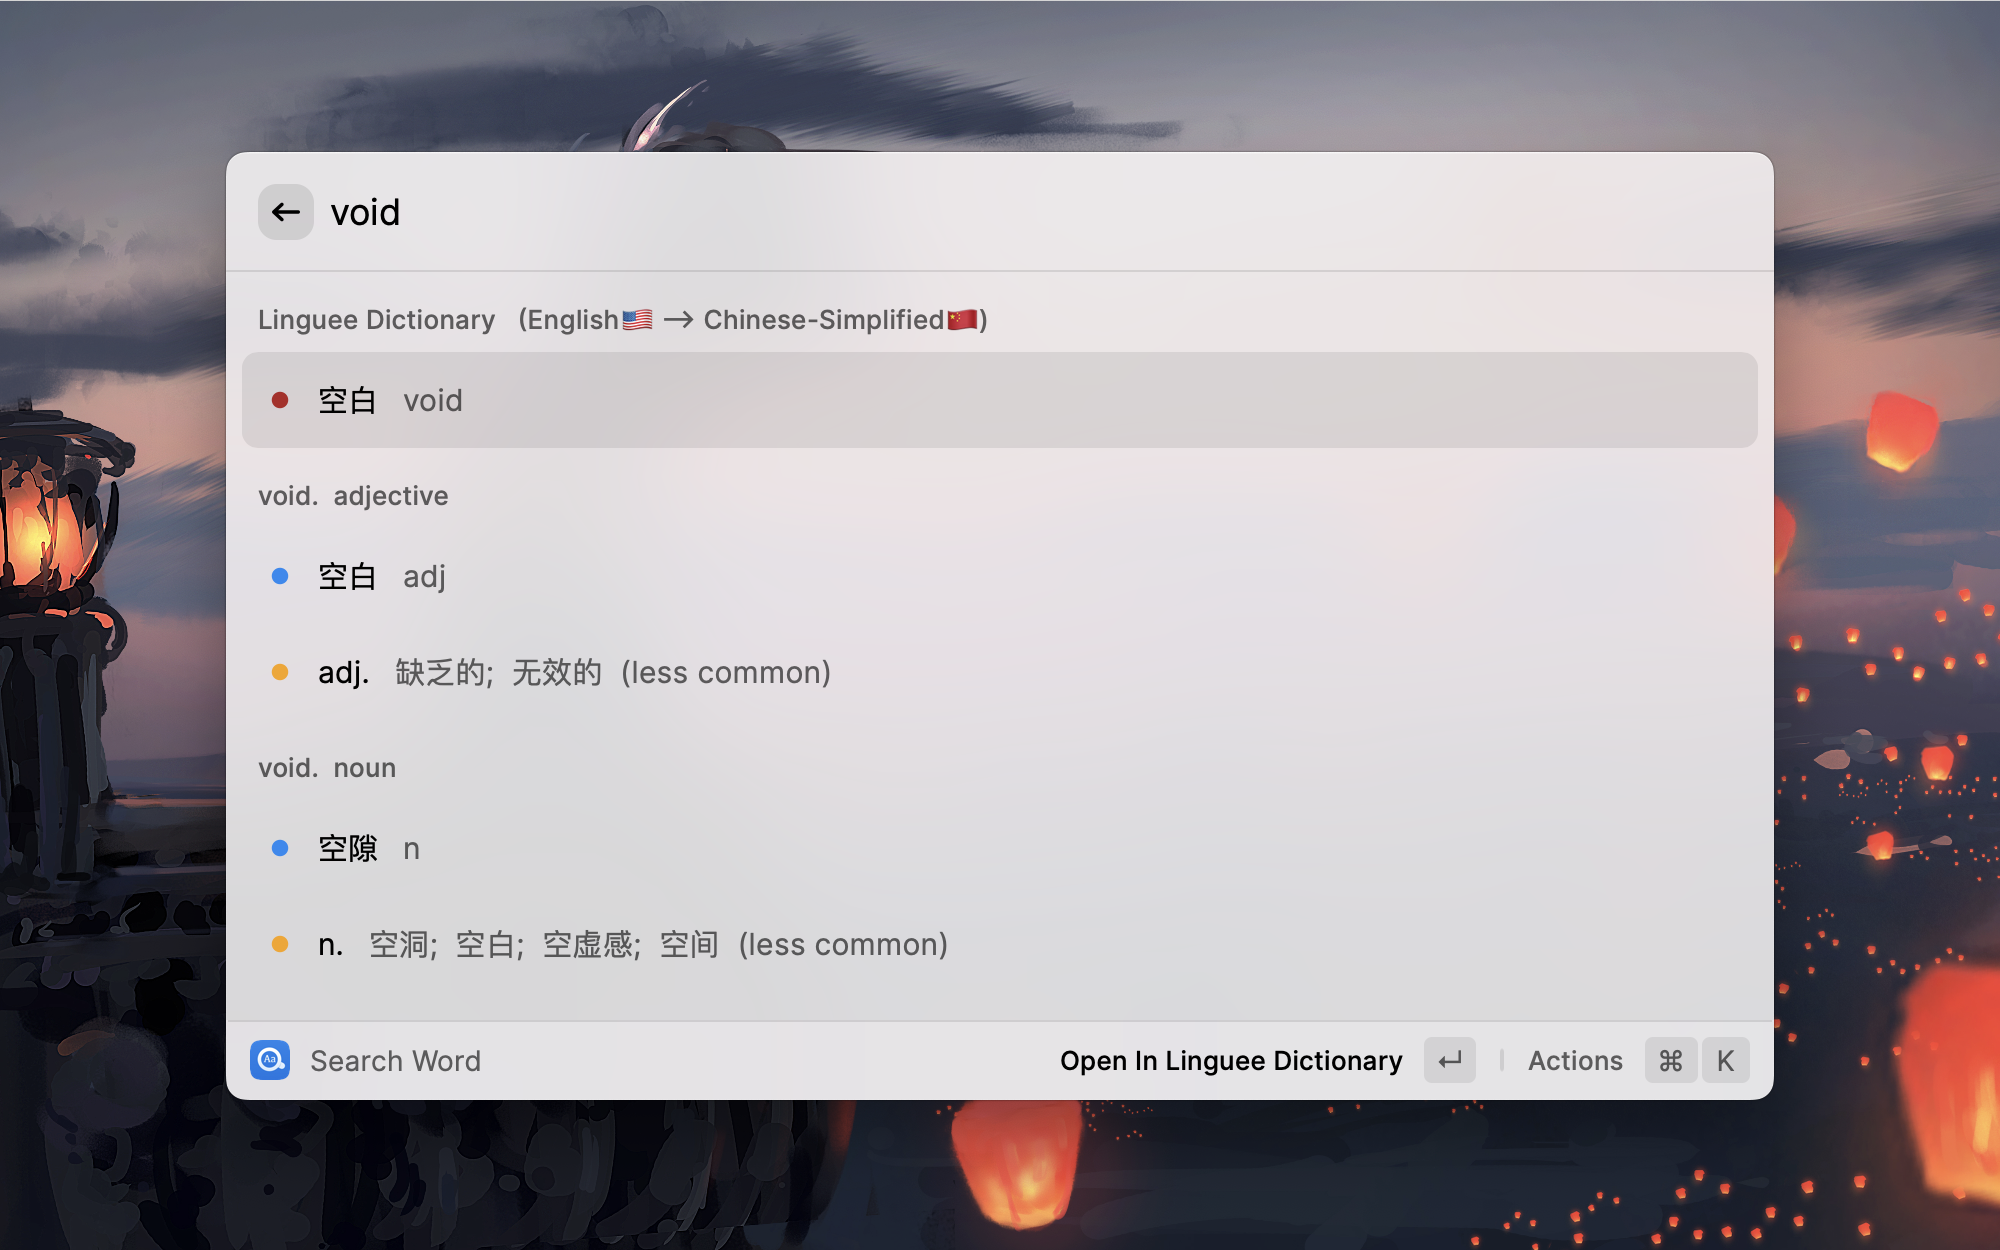
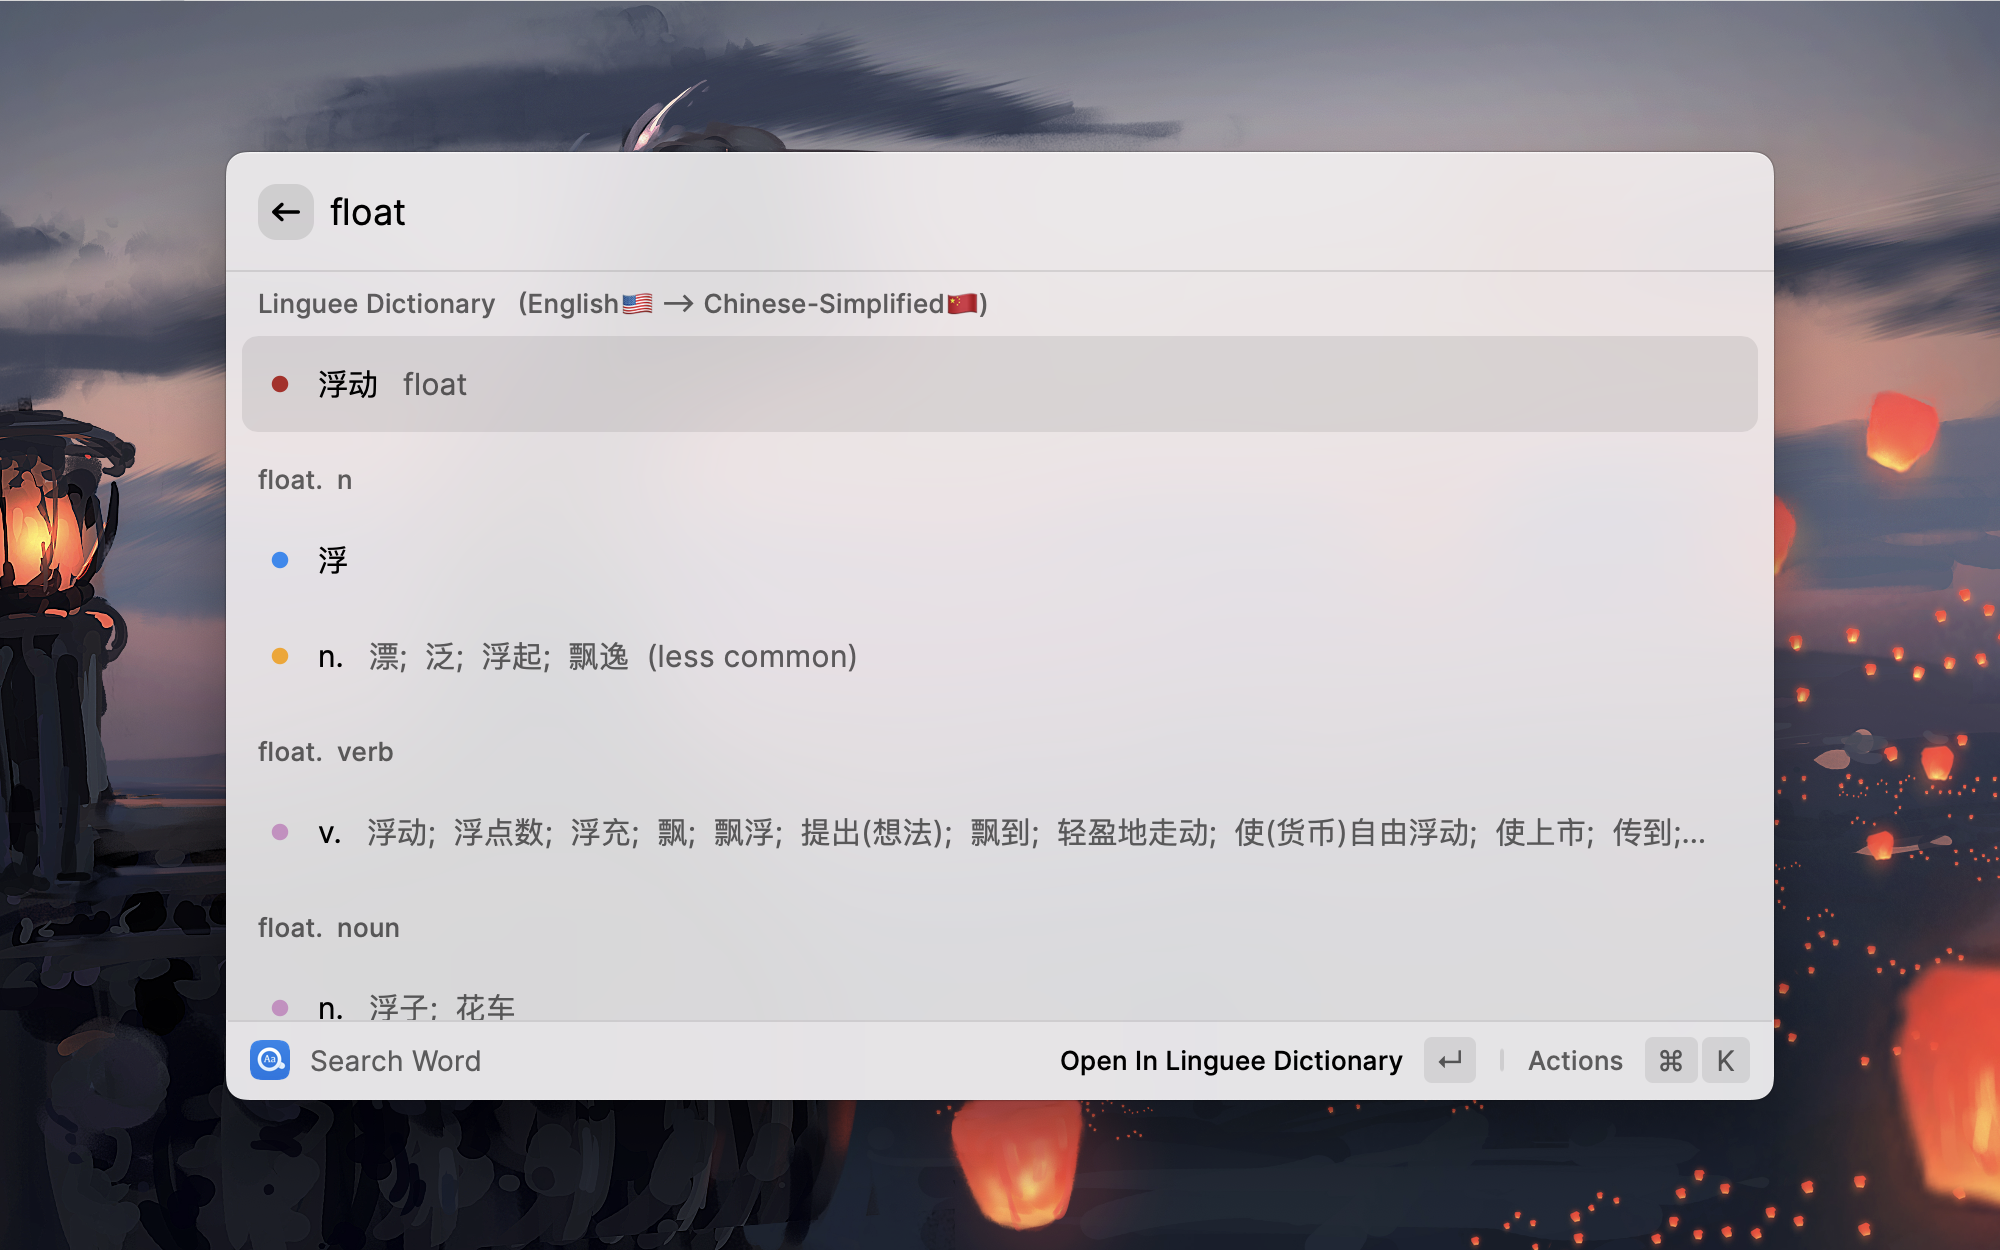
docs: update README

diff --git a/README.md b/README.md
@@ -13,7 +13,7 @@
 
 ## What is Easydict? [【中文介绍】](https://github.com/tisfeng/Raycast-Easydict/blob/main/docs/README_ZH.md)
 
-`Easydict` is an easy dictionary, for looking up words or easily translating text. Use it out of the box, automatically detect the input text language, and support **Linguee** and Youdao dictionary, **MacOS system translate**, DeepL, Google, Baidu, Tencent, Youdao, and Caiyun translation.
+`Easydict` is an easy dictionary, for looking up words or easily translating text. Use it out of the box, automatically detect the input text language, and support **Linguee** and Youdao dictionary, **MacOS system translation**, DeepL, Google, Baidu, Tencent, Youdao, and Caiyun translation.
 
 ![easydict-1](https://raw.githubusercontent.com/tisfeng/ImageBed/main/uPic/easydict-1-1660916219.png)
 
@@ -24,11 +24,11 @@
 - [x] Provide word-rich query information, including basic translation, pronunciation, the types of exams that include the word, multiple parts of speech and explanations, forms and tenses, web translations, and web phrases.
 - [x] Support automatic query selected text, enabled by default.
 - [x] Support to open the [Eudic Dictionary](https://apps.apple.com/us/app/eudic-%E6%AC%A7%E8%B7%AF%E8%AF%8D%E5%85%B8/id434350458?l=zh&mt=12) and quickly look up words, if installed on your Mac.
-- [x] Quick search query text online, supports Eudic, Youdao dictionary, and Google translation.
 - [x] Support automatic playback of word pronunciation. Use `Cmd + S` to play the pronunciation of words manually.
 - [x] Support Youdao Text to Speech(TTS).
 - [x] Support to sort translation results manually.
 - [x] Support system proxy.
+- [x] Support Linguee and Youdao Dictionary.
 - [x] Support **macOS system translation**. (_Please see [How to use macOS 🍎 system translation in Easydict?](https://github.com/tisfeng/Raycast-Easydict/blob/main/docs/How-to-use-macOS%F0%9F%8D%8Esystem-translation-in-Easydict.md)_)
 - [x] Support DeepL, Google, Baidu, Tencent, Youdao, and Caiyun translation.
 - [x] Support 23 languages.
@@ -44,27 +44,45 @@ Next:
 
 ### Linguee Dictionary：English <--> Chinese
 
-#### [void](https://www.linguee.com/english-chinese/search?query=void)
+![easydict-2](https://raw.githubusercontent.com/tisfeng/ImageBed/main/uPic/easydict-2-1661158964.png)
 
-![void](https://raw.githubusercontent.com/tisfeng/ImageBed/main/uPic/void-1660921305.png)
+#### [float](https://www.linguee.com/english-chinese/search?query=float)
 
-![easydict-2](https://raw.githubusercontent.com/tisfeng/ImageBed/main/uPic/easydict-2-1660919430.png)
+![image-20220822170315915](https://raw.githubusercontent.com/tisfeng/ImageBed/main/uPic/image-20220822170315915-1661158995.png)
 
 ### Linguee Dictionary：English <--> French
-
-#### [good](https://www.linguee.com/english-french/search?query=good)
-
-![good-French](https://raw.githubusercontent.com/tisfeng/ImageBed/main/uPic/good-French-1660921471.png)
 
 ![easydict-3](https://raw.githubusercontent.com/tisfeng/ImageBed/main/uPic/easydict-3-1660916319.png)
 
 ![easydict-4](https://raw.githubusercontent.com/tisfeng/ImageBed/main/uPic/easydict-4-1660916341.png)
+
+#### [good](https://www.linguee.com/english-french/search?query=good)
+
+![image-20220822163332948](https://raw.githubusercontent.com/tisfeng/ImageBed/main/uPic/image-20220822163332948-1661157213.png)
 
 ### Translation
 
 ![easydict-5](https://raw.githubusercontent.com/tisfeng/ImageBed/main/uPic/easydict-5-1660916386.png)
 
 ![easydict-6](https://raw.githubusercontent.com/tisfeng/ImageBed/main/uPic/easydict-6-1660916492.png)
+
+### Installation
+
+[`Easydict`](<(https://www.raycast.com/isfeng/easydict)>) is an extension for Raycast, so you need to install [Raycast](https://www.raycast.com/) first.
+
+### Install from Raycast Store
+
+<a title="Install Easy Dictionary Raycast Extension" href="https://www.raycast.com/isfeng/easydict#install">
+          <img height="64" style="height: 64px" src="https://assets.raycast.com/isfeng/easydict/install_button@2x.png">
+</a>
+
+### Manual Installation
+
+```bash
+git clone https://github.com/tisfeng/Raycast-Easydict.git && cd Raycast-Easydict
+
+npm install && npm run dev
+```
 
 ---
 
@@ -243,6 +261,4 @@ The following application tutorial is from [`Bob`](https://v0.bobtranslate.com/#
 
 This project is inspired by [raycast-Parrot](https://github.com/Haojen/raycast-Parrot) and [Bob](https://github.com/ripperhe/Bob), and the first version is based on [raycast-Parrot](https://github.com/Haojen/raycast-Parrot). `Easydict` has improved many UI displays, added more practical features, deleted some complex or inappropriate operations, and made a lot of optimization && improvements on the original project.
 
-Finally, all those interested in this project are welcome to contribute to the project, issues and PRs are fine. The project is still in the rapid development stage, any practical suggestions or interesting ideas are OK. There is no guarantee that they will be accepted, but they will be definitely considered.
-
-In addition, if submitting a PR, it is recommended to open a issue to briefly describe the content of the PR to avoid conflicts between PR and the features I am currently developing. Thank you.
+Finally, all those interested in this project are welcome to contribute to the project, issues and PRs are fine. The project is still in the rapid development stage, any practical suggestions or interesting ideas are OK. There is no guarantee that they will be accepted, but they will be definitely considered. In addition, if submitting a PR, it is recommended to open a issue to briefly describe the content of the PR to avoid conflicts between PR and the features I am currently developing. Thank you.

diff --git a/docs/README_ZH.md b/docs/README_ZH.md
@@ -11,12 +11,9 @@
     <img height="64" style="height: 64px" src="https://assets.raycast.com/isfeng/easydict/install_button@2x.png">
 </a>
 </p>
-
 ## Easydict（易词典）
 
 `Easydict` 是一个简洁易用的 Raycast 词典扩展，可轻松优雅地查找单词或翻译文本，特别针对英语和中文单词进行了优化。开箱即用，能自动识别输入文本语言，目前支持 **Linguee** 和有道词典查询，支持**苹果 🍎 系统翻译**，DeepL，Google，百度，腾讯，有道和彩云翻译。
-
-### 有道词典
 
 ![easydict-1](https://raw.githubusercontent.com/tisfeng/ImageBed/main/uPic/easydict-1-1660916219.png)
 
@@ -47,27 +44,46 @@
 
 ### Linguee 词典：英语 <--> 中文
 
-#### [void](https://www.linguee.com/english-chinese/search?query=void)
+![easydict-2](https://raw.githubusercontent.com/tisfeng/ImageBed/main/uPic/easydict-2-1661158964.png)
 
-![void](https://raw.githubusercontent.com/tisfeng/ImageBed/main/uPic/void-1660921305.png)
+#### [float](https://www.linguee.com/english-chinese/search?query=float)
 
-![easydict-2](https://raw.githubusercontent.com/tisfeng/ImageBed/main/uPic/easydict-2-1660919430.png)
+![image-20220822170315915](https://raw.githubusercontent.com/tisfeng/ImageBed/main/uPic/image-20220822170315915-1661158995.png)
 
 ### Linguee 词典：英语 <--> 法语
-
-#### [good](https://www.linguee.com/english-french/search?query=good)
-
-![good-French](https://raw.githubusercontent.com/tisfeng/ImageBed/main/uPic/good-French-1660921471.png)
 
 ![easydict-3](https://raw.githubusercontent.com/tisfeng/ImageBed/main/uPic/easydict-3-1660916319.png)
 
 ![easydict-4](https://raw.githubusercontent.com/tisfeng/ImageBed/main/uPic/easydict-4-1660916341.png)
+
+#### [good](https://www.linguee.com/english-french/search?query=good)
+
+![image-20220822163332948](https://raw.githubusercontent.com/tisfeng/ImageBed/main/uPic/image-20220822163332948-1661157213.png)
 
 ### 文本翻译
 
 ![easydict-5](https://raw.githubusercontent.com/tisfeng/ImageBed/main/uPic/easydict-5-1660916386.png)
 
 ![easydict-6](https://raw.githubusercontent.com/tisfeng/ImageBed/main/uPic/easydict-6-1660916492.png)
+
+## 安装
+
+`Easydict` 是一个 Raycast extension，因此需要先安装 [Raycast](https://www.raycast.com/)。
+
+### Raycast 商店安装
+
+<a title="Install Easy Dictionary Raycast Extension" href="https://www.raycast.com/isfeng/easydict#install">
+          <img height="64" style="height: 64px" src="https://assets.raycast.com/isfeng/easydict/install_button@2x.png">
+</a>
+
+### 手动安装
+
+```bash
+git clone https://github.com/tisfeng/Raycast-Easydict.git && cd Raycast-Easydict
+
+npm install && npm run dev
+
+```
 
 ---
 
@@ -211,7 +227,7 @@
 
 ### 支持系统代理
 
-开启该功能后，`Easydict` 会尝试获取 Mac 系统代理，若成功，则后续的网络请求都会使用系统代理发送。默认关闭。（此功能是为了对抗 IP 封锁，因为某些服务如 Linguee 对 IP 有频率限制）
+开启该功能后，`Easydict` 会尝试获取 Mac 系统代理，若成功，则后续的网络请求都会通过系统代理发送。默认关闭。（此功能是为了对抗 IP 封锁，因为某些服务如 Linguee 对 IP 有频率限制）
 
 ### 翻译服务
 
